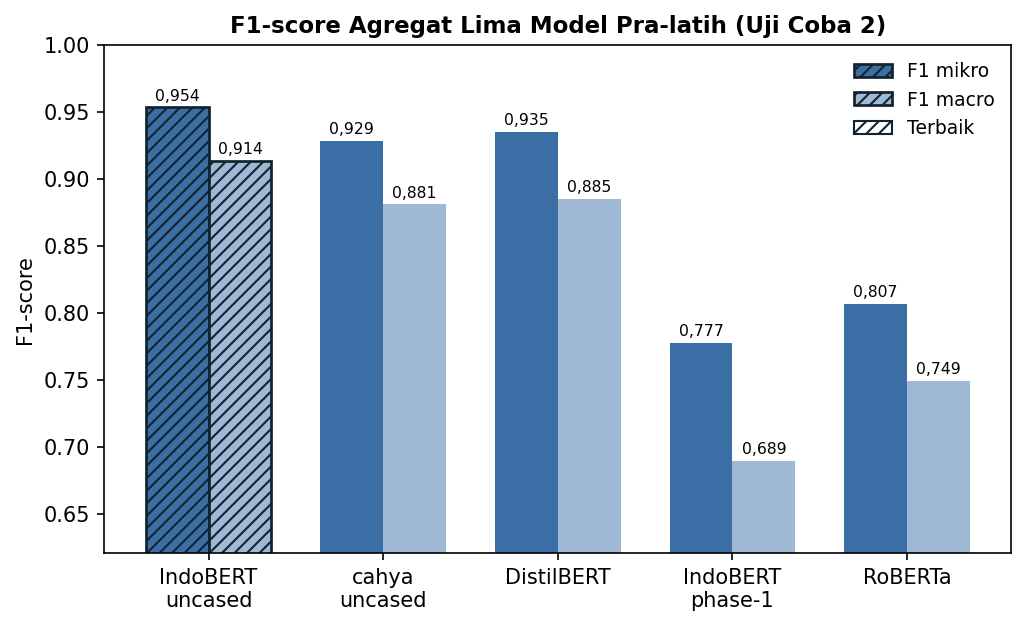
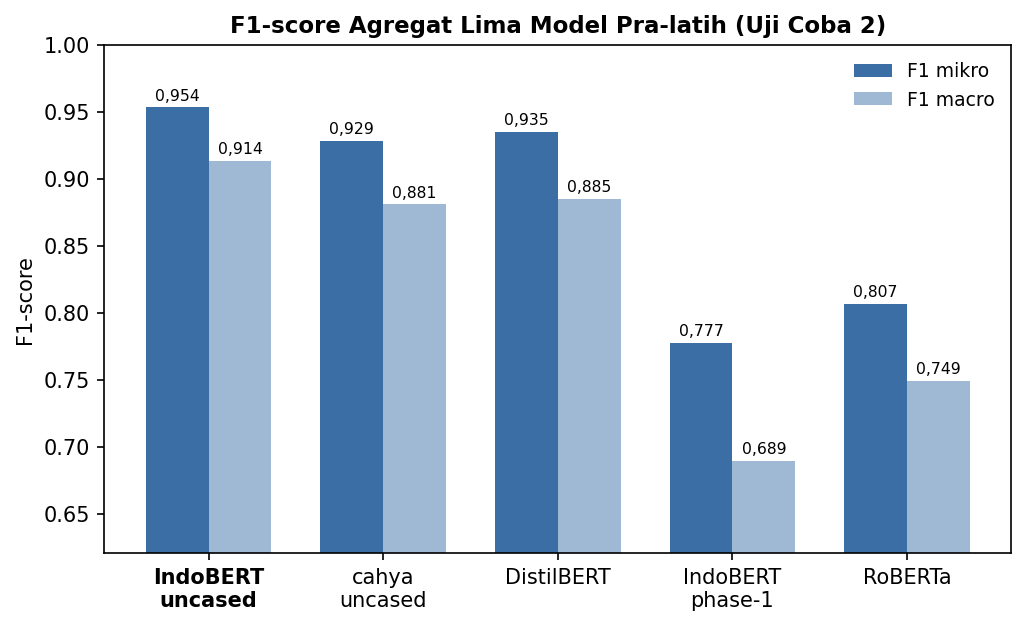
fix(bab4-viz): tandai pemenang dengan BOLD nama di sumbu-x (bukan hatch)
Ganti penanda pemenang: hapus hatch + entri legenda "Terbaik" (plot_agregat)
dan anotasi "(menang)" (chart kanonik). Sekarang pemenang cukup ditandai
dengan mem-bold nama model/langkahnya pada sumbu-x. Warna tetap konsisten
dengan legenda. PNG bab4_viz diregenerate.

Changed region(s): [[0.1248, 0.1518, 0.2807, 0.8802], [0.8109, 0.0911, 0.9669, 0.2125], [0.1248, 0.9105, 0.2495, 0.9712]]

diff --git a/src/analysis/bab4_visualizations.py b/src/analysis/bab4_visualizations.py
@@ -121,23 +121,17 @@ fig.savefig(OUT / "augmentasi_distribusi.png"); plt.close(fig)
 def plot_agregat(fname, judul, labels, micro, macro, highlight=None, rot=0, figw=7.2):
     fig, ax = plt.subplots(figsize=(figw, 4.4))
     x = np.arange(len(labels)); w = 0.36
-    # Warna KONSISTEN dengan legenda: F1 mikro selalu biru, F1 macro selalu biru muda.
-    # Pemenang TIDAK diberi warna berbeda (revisi Pak Aldi #8), melainkan ditandai hatch.
-    from matplotlib.patches import Patch
+    # Warna KONSISTEN dengan legenda: F1 mikro selalu biru, F1 macro selalu biru muda
+    # (revisi Pak Aldi #8). Pemenang ditandai dengan MEN-BOLD nama model/langkahnya
+    # pada sumbu-x -- bukan lewat warna berbeda maupun hatch.
     bM = ax.bar(x - w/2, micro, w, label="F1 mikro", color="#3b6ea5")
     bR = ax.bar(x + w/2, macro, w, label="F1 macro", color="#9fb8d4")
-    if highlight is not None:
-        for b in (bM[highlight], bR[highlight]):
-            b.set_hatch("////"); b.set_edgecolor("#12222f"); b.set_linewidth(1.3)
     ax.set_ylim(min(min(micro), min(macro))*0.90, 1.0)
     ax.set_xticks(x); ax.set_xticklabels(labels, rotation=rot)
-    ax.set_ylabel("F1-score"); ax.set_title(judul)
-    handles, lbls = ax.get_legend_handles_labels()
     if highlight is not None:
-        handles.append(Patch(facecolor="white", edgecolor="#12222f",
-                             hatch="////", label="Terbaik"))
-        lbls.append("Terbaik")
-    ax.legend(handles, lbls, frameon=False, fontsize=9)
+        ax.get_xticklabels()[highlight].set_fontweight("bold")
+    ax.set_ylabel("F1-score"); ax.set_title(judul)
+    ax.legend(frameon=False, fontsize=9)
     for bars in (bM, bR):
         for b in bars:
             ax.text(b.get_x()+b.get_width()/2, b.get_height()+0.003,

diff --git a/src/analysis/hasil_f1_skenario_revisi.py b/src/analysis/hasil_f1_skenario_revisi.py
@@ -66,15 +66,17 @@ def main() -> None:
     ax.text(len(DATA) - 0.5, BASELINE + 0.004, f"baseline {BASELINE:.4f}",
             ha="right", va="bottom", fontsize=8, color="#555")
 
-    for i, (b, v, w) in enumerate(zip(bars, vals, win)):
-        tag = f"{v:.4f}" + (" (menang)" if w else "")
-        ax.annotate(tag, (b.get_x() + b.get_width() / 2, v),
-                    ha="center", va="bottom",
-                    fontsize=9, fontweight="bold" if w else "normal",
+    for b, v in zip(bars, vals):
+        ax.annotate(f"{v:.4f}", (b.get_x() + b.get_width() / 2, v),
+                    ha="center", va="bottom", fontsize=9,
                     xytext=(0, 2), textcoords="offset points")
 
     ax.set_xticks(list(x))
     ax.set_xticklabels(labels, fontsize=9)
+    # Tandai pemenang: bold nama langkah/model pada sumbu-x (bukan warna/hatch/anotasi).
+    for i, w in enumerate(win):
+        if w:
+            ax.get_xticklabels()[i].set_fontweight("bold")
     ax.set_ylim(0.72, 1.0)
     ax.set_ylabel("F1-score entity-level (seqeval, gold terkoreksi)")
     ax.set_title("Perbandingan F1 seluruh skenario (ground-truth uji terkoreksi)")
